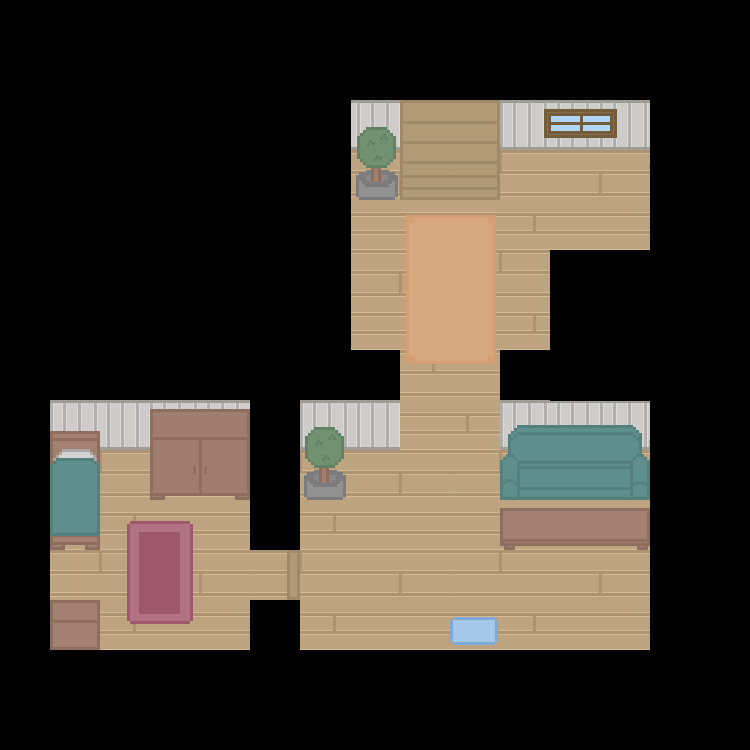
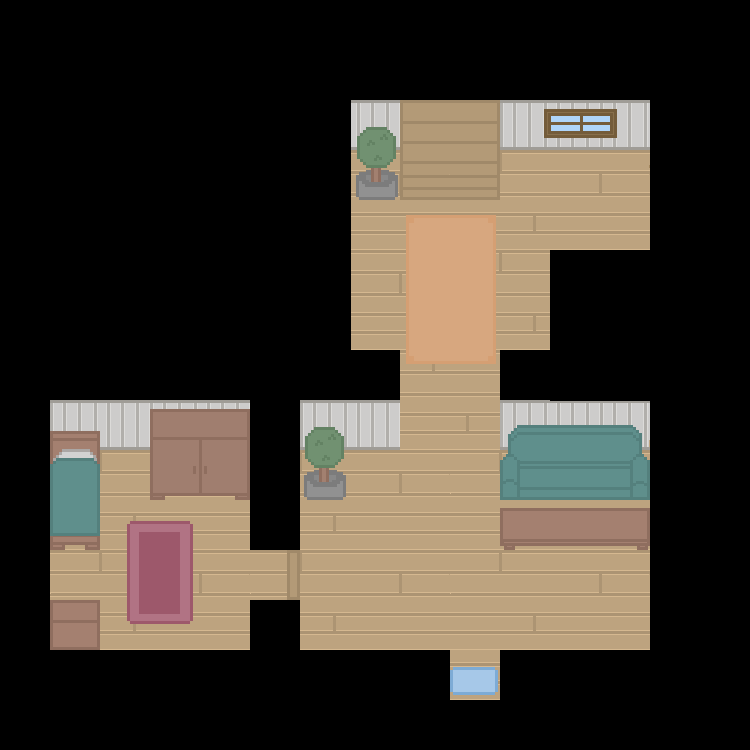
- nowe lokacje - dodano funkcje potrzebne do zapisu

Changed region(s): [[0.5827, 0.7973, 0.6747, 0.9507]]

diff --git a/Project5/BarelyBear.c b/Project5/BarelyBear.c
@@ -8,18 +8,7 @@
 #include <allegro5\allegro_font.h>
 #include <allegro5\allegro_ttf.h>
 #include "dialogi.h"
-struct wlasciwosci_pola {
-	bool przeszkoda;
-	int  npc;
-	int  przejscie_mapy;
-	int npc_id;
-	int przeciwnik;
-	int przeciwnik_id;
-	int przedmiot;
-	int zdarzenia;
-	bool przyszle_poz_przeciwnikow;
-	bool przyszle_poz_npc;
-};
+
 struct dane_npc {
 	bool rozmawia;
 	int npc_id;
@@ -42,6 +31,8 @@ struct dane_przeciwnikow {
 	int poz_y;
 	int poz_docelowa_x;
 	int poz_docelowa_y;
+	int x_spawnu;
+	int y_spawnu;
 	int skok_miedzy_zmianami;
 	int kierunek;
 	int ostatni_kierunek;
@@ -89,7 +80,6 @@ struct wspolrzedne_pola
 typedef struct dane_do_alg_A dane_do_A;
 typedef struct lista s_lista;
 typedef struct wspolrzedne_pola s_wspolrzedne_pola;
-typedef struct wlasciwosci_pola wlasciwosci_pola_t;
 typedef struct dane_npc dane_npc_t;
 typedef struct przedmiot przedmiot_t;
 typedef struct typy_przedmiotow typy_przedmiotow_t;
@@ -119,7 +109,7 @@ void atak(wlasciwosci_pola_t**mapadane, int ostatni_kierunek, int poz_x, int poz
 
 
 int main() {
-	int ilosc_map = 29;
+	int ilosc_map = 33;
 	int mapax = 0;
 	int mapay = 0;
 	int tmp;
@@ -236,7 +226,7 @@ int main() {
 	if (ilosc_map != 0) {
 		nazwy_plikow = (char***)malloc(ilosc_map * sizeof(char**));
 		for (i = 0; i < ilosc_map; i++) {
-			nazwy_plikow[i] = (char**)malloc(2 * sizeof(char*));
+			nazwy_plikow[i] = (char**)malloc(3 * sizeof(char*));
 			}
 	}
 	czytanie_nazw(nazwy_plikow);
@@ -278,7 +268,6 @@ int main() {
 			}
 		}
 		wczytanie_z_pliku(dane_do_mapy, mapadane, wysokosc, szerokosc);
-		mapadane[5][6].przeciwnik = 3;
 		ilosc_rysowanych_npc = 0;
 		//zliczenie ilosci rysowanych npc
 		for (i = 0; i < wysokosc; i++) {
@@ -304,11 +293,11 @@ int main() {
 		//zerowanie npc.id na mapie i wyliczenie danych potrzebnych do ruchu
 		x = 1;
 		y = 1;
+		
 		for (i = 0; i < wysokosc; i++) {
 			for (j = 0; j < szerokosc; j++) {
 				mapadane[i][j].przyszle_poz_npc = false; //zerowanie przyszlych poz npc potrzebnych do kolizji z npc;
 				mapadane[i][j].przyszle_poz_przeciwnikow = false;
-				mapadane[i][j].przedmiot = 0;
 				if (mapadane[i][j].npc == 0) {
 					mapadane[i][j].npc_id = 0;
 				}
@@ -344,6 +333,8 @@ int main() {
 					dane_przeciwnikow_wartosci[tmp].poz_y = i*misjednostka*-1;
 					dane_przeciwnikow_wartosci[tmp].poz_docelowa_x = dane_przeciwnikow_wartosci[tmp].poz_x;
 					dane_przeciwnikow_wartosci[tmp].poz_docelowa_y = dane_przeciwnikow_wartosci[tmp].poz_y;
+					dane_przeciwnikow_wartosci[tmp].x_spawnu = j;
+					dane_przeciwnikow_wartosci[tmp].x_spawnu = i;
 					dane_przeciwnikow_wartosci[tmp].ostatni_kierunek = 1;
 					dane_przeciwnikow_wartosci[tmp].kierunek = 5;
 					dane_przeciwnikow_wartosci[tmp].zdrowie = 100;
@@ -353,7 +344,6 @@ int main() {
 
 			}
 		}
-		mapadane[6][6].przedmiot = 3;
 		rozmowa = 0;
 		mapa = al_load_bitmap(nazwy_plikow[numerbitmapy][0]);
 		if (numerbitmapy == 0) {
@@ -528,7 +518,7 @@ int main() {
 			if (ilosc_rysowanych_npc> 0 || ilosc_rysowanych_wrogow>0) {
 				for (i = yszukania; i < yszukania + szerszukania; i++) {
 					for (j = xszukania; j < xszukania + szerszukania; j++) {
-						if (!poza_mapa(wysokosc,szerokosc,i,j))
+						if (!poza_mapa(wysokosc,szerokosc,j,i))
 						{
 							if (mapadane[i][j].przedmiot != 0) {
 								al_draw_bitmap_region(przedmioty, (mapadane[i][j].przedmiot - 1)*misjednostka, 50, misjednostka, misjednostka, (j*misjednostka) - mapax*-1, (i*misjednostka) - mapay*-1, 0);
@@ -707,7 +697,8 @@ int main() {
 										}
 									}
 									else {
-										mapadane[i][j].przeciwnik_id = 0;
+										mapadane[dane_przeciwnikow_wartosci[tmp].y_spawnu][dane_przeciwnikow_wartosci[tmp].x_spawnu].przeciwnik_id = 0;
+										mapadane[dane_przeciwnikow_wartosci[tmp].y_spawnu][dane_przeciwnikow_wartosci[tmp].x_spawnu].przeciwnik = 0;
 									}
 								}
 							}
@@ -999,90 +990,136 @@ void czytanie_nazw(char ***nazwy) {
 
 	nazwy[0][0] = "data/mapy/miasto.png";
 	nazwy[0][1] = "data/mapy/miasto.leafe";
+	nazwy[0][2] = "save/mapy/miastosav.leafe";
 
 	nazwy[1][0] = "data/mapy/wnetrze_dom_starca.png";
 	nazwy[1][1] = "data/mapy/wnetrze_dom_starca.leafe";
+	nazwy[1][2] = "save/mapy/wnetrze_dom_starcasav.leafe";
 
 	nazwy[2][0] = "data/mapy/domAlbrehta.png";
 	nazwy[2][1] = "data/mapy/domAlbrehta.leafe";
+	nazwy[2][2] = "save/mapy/domAlbrehtasav.leafe";
 
 	nazwy[3][0] = "data/mapy/karczma.png";
 	nazwy[3][1] = "data/mapy/karczma.leafe";
+	nazwy[3][2] = "save/mapy/karczmasav.leafe";
 
 	nazwy[4][0] = "data/mapy/piwnica_szczury.png";
 	nazwy[4][1] = "data/mapy/piwnica_szczury.leafe";
+	nazwy[4][2] = "save/mapy/piwnica_szczurysav.leafe";
 
 	nazwy[5][0] = "data/mapy/wnetrze_dom_mieszkalny1.png";
 	nazwy[5][1] = "data/mapy/mieszkanie1.leafe";
+	nazwy[5][2] = "save/mapy/mieszkanie1sav.leafe";
 
 	nazwy[6][0] = "data/mapy/wnetrze_dom_mieszkalny2.png";
 	nazwy[6][1] = "data/mapy/mieszkanie2.leafe";
+	nazwy[6][2] = "save/mapy/mieszkanie2sav.leafe";
 
 	nazwy[7][0] = "data/mapy/wnetrze_dom_mieszkalny3.png";
 	nazwy[7][1] = "data/mapy/mieszkanie3.leafe";
+	nazwy[7][2] = "save/mapy/mieszkanie3sav.leafe";
 
 	nazwy[8][0] = "data/mapy/wnetrze_dom_mieszkalny1.png";
 	nazwy[8][1] = "data/mapy/mieszkanie4.leafe";
+	nazwy[8][2] = "save/mapy/mieszkanie4sav.leafe";
 
 	nazwy[9][0] = "data/mapy/wnetrze_dom_mieszkalny2.png";
 	nazwy[9][1] = "data/mapy/mieszkanie5.leafe";
+	nazwy[9][2] = "save/mapy/mieszkanie5sav.leafe";
 
 	nazwy[10][0] = "data/mapy/wnetrze_dom_mieszkalny3.png";
 	nazwy[10][1] = "data/mapy/mieszkanie6.leafe";
+	nazwy[10][2] = "save/mapy/mieszkanie6sav.leafe";
 
 	nazwy[11][0] = "data/mapy/wnetrze_dom_mieszkalny1.png";
 	nazwy[11][1] = "data/mapy/mieszkanie7.leafe";
+	nazwy[11][2] = "save/mapy/mieszkanie7sav.leafe";
 
 	nazwy[12][0] = "data/mapy/wnetrze_dom_mieszkalny2.png";
 	nazwy[12][1] = "data/mapy/mieszkanie8.leafe";
+	nazwy[12][2] = "save/mapy/mieszkanie8sav.leafe";
 
 	nazwy[13][0] = "data/mapy/wnetrze_dom_mieszkalny3.png";
 	nazwy[13][1] = "data/mapy/mieszkanie9.leafe";
+	nazwy[13][2] = "save/mapy/mieszkanie9sav.leafe";
 
 	nazwy[14][0] = "data/mapy/wnetrze_dom_mieszkalny1.png";
 	nazwy[14][1] = "data/mapy/mieszkanie10.leafe";
+	nazwy[14][2] = "save/mapy/mieszkanie10sav.leafe";
 
 	nazwy[15][0] = "data/mapy/wnetrze_dom_mieszkalny2.png";
 	nazwy[15][1] = "data/mapy/mieszkanie11.leafe";
+	nazwy[15][2] = "save/mapy/mieszkanie11sav.leafe";
 
 	nazwy[16][0] = "data/mapy/wnetrze_dom_mieszkalny3.png";
 	nazwy[16][1] = "data/mapy/mieszkanie12.leafe";
+	nazwy[16][2] = "save/mapy/mieszkanie12sav.leafe";
 
 	nazwy[17][0] = "data/mapy/wnetrze_dom_mieszkalny1.png";
 	nazwy[17][1] = "data/mapy/mieszkanie13.leafe";
+	nazwy[17][2] = "save/mapy/mieszkanie13sav.leafe";
 
 	nazwy[18][0] = "data/mapy/wnetrze_dom_mieszkalny2.png";
 	nazwy[18][1] = "data/mapy/mieszkanie14.leafe";
+	nazwy[18][2] = "save/mapy/mieszkanie14sav.leafe";
 
 	nazwy[19][0] = "data/mapy/wnetrze_dom_mieszkalny3.png";
 	nazwy[19][1] = "data/mapy/mieszkanie15.leafe";
+	nazwy[19][2] = "save/mapy/mieszkanie15sav.leafe";
 
 	nazwy[20][0] = "data/mapy/wnetrze_dom_mieszkalny1.png";
 	nazwy[20][1] = "data/mapy/mieszkanie16.leafe";
+	nazwy[20][2] = "save/mapy/mieszkanie16sav.leafe";
 
 	nazwy[21][0] = "data/mapy/wnetrze_dom_mieszkalny2.png";
 	nazwy[21][1] = "data/mapy/mieszkanie17.leafe";
+	nazwy[21][2] = "save/mapy/mieszkanie17sav.leafe";
 
 	nazwy[22][0] = "data/mapy/wnetrze_dom_mieszkalny3.png";
 	nazwy[22][1] = "data/mapy/mieszkanie18.leafe";
+	nazwy[22][2] = "save/mapy/mieszkanie18sav.leafe";
 
 	nazwy[23][0] = "data/mapy/wnetrze_dom_mieszkalny1.png";
 	nazwy[23][1] = "data/mapy/mieszkanie19.leafe";
+	nazwy[23][2] = "save/mapy/mieszkanie19sav.leafe";
 
 	nazwy[24][0] = "data/mapy/wnetrze_dom_mieszkalny2.png";
 	nazwy[24][1] = "data/mapy/mieszkanie20.leafe";
+	nazwy[24][2] = "save/mapy/mieszkanie20sav.leafe";
 
 	nazwy[25][0] = "data/mapy/wnetrze_dom_mieszkalny3.png";
 	nazwy[25][1] = "data/mapy/mieszkanie21.leafe";
+	nazwy[25][2] = "save/mapy/mieszkanie21sav.leafe";
 
 	nazwy[26][0] = "data/mapy/wnetrze_dom_mieszkalny1.png";
 	nazwy[26][1] = "data/mapy/mieszkanie22.leafe";
+	nazwy[26][2] = "save/mapy/mieszkanie22sav.leafe";
 
 	nazwy[27][0] = "data/mapy/wnetrze_dom_mieszkalny2.png";
 	nazwy[27][1] = "data/mapy/mieszkanie23.leafe";
+	nazwy[27][2] = "save/mapy/mieszkanie23sav.leafe";
 
 	nazwy[28][0] = "data/mapy/wnetrze_dom_mieszkalny3.png";
 	nazwy[28][1] = "data/mapy/mieszkanie24.leafe";
+	nazwy[28][2] = "save/mapy/mieszkanie24sav.leafe";
+
+	nazwy[29][0] = "data/mapy/biblioteka.png";
+	nazwy[29][1] = "data/mapy/biblioteka.leafe";
+	nazwy[29][2] = "save/mapy/bibliotekasav.leafe";
+
+	nazwy[30][0] = "data/mapy/gildia.png";
+	nazwy[30][1] = "data/mapy/gildia.leafe";
+	nazwy[30][2] = "save/mapy/gildiasav.leafe";
+
+	nazwy[31][0] = "data/mapy/jaskinia.png";
+	nazwy[31][1] = "data/mapy/jaskinia.leafe";
+	nazwy[31][2] = "save/mapy/jaskiniasav.leafe";
+
+	nazwy[32][0] = "data/mapy/strozowka.png";
+	nazwy[32][1] = "data/mapy/strozowka.leafe";
+	nazwy[32][2] = "save/mapy/strozowkasav.leafe";
+
 
 }
 void czytanie_nazw_przeciwnikow(char **nazwy) {

diff --git a/Project5/dialogi.c b/Project5/dialogi.c
@@ -148,6 +148,7 @@ void dialogi(ALLEGRO_FONT *czcionka, int rodzaj_npc, int* nr_odp, int *rozmowa, 
 						*zad = 3;
 						*rozmowa = 0;
 						zabranie_przedmioty_z_ekwipunku(przedmioty_zalozone, przedmioty_w_ekwipunku, 1, 3);
+						zapis_pliku_leafe_z_pliku_do_pliku("data/mapy/karczma.leafe", "wynik.leafe");
 					}
 					else
 					{
@@ -267,15 +268,86 @@ void zabranie_przedmioty_z_ekwipunku(int*przedmioty_zalozone, int przedmioty_w_e
 	else {
 		for (i = 0; i < 5; i++) {
 			for (j = 0; j < 3; j++) {
-				if (przedmioty_w_ekwipunku[i][j] == czego_szukamy) {
+				if (!zabrano && przedmioty_w_ekwipunku[i][j] == czego_szukamy) {
 					przedmioty_w_ekwipunku[i][j] = 0;
 					zabrano = true;
 				}
 			}
 		}
 	}
+}
+bool sprawdzenie_czy_sa_przeciwnicy_na_aktualnej_mapie(wlasciwosci_pola_t** mapa,int wysokosc,int szerokosc,int ktorego_wroga_szukamy) {
+	int i, j;
+	for (i = 0; i < wysokosc; i++) {
+		for (j = 0; j < szerokosc; j++) {
+			if (mapa[i][j].przeciwnik == ktorego_wroga_szukamy) {
+				return true;
+			}
+		}
+	}
 	return false;
 }
-bool sprawdzenie_czy_sa_przeciwnicy_na_aktualnej_mapie() {
-
+bool sprawdzenie_czy_sa_przeciwnicy_na_innej_mapie(char* nazwa_mapy,int ktorego_wroga_szukamy) {
+	FILE *plik;
+	int wysokosc, szerokosc, xspawnu, yspawnu;
+	int i, j;
+	int pomoc,to_co_trzeba;
+	fopen_s(&plik,nazwa_mapy, "r");
+	fscanf_s(plik, "%i", &wysokosc);
+	fscanf_s(plik, "%i", &szerokosc);
+	fscanf_s(plik, "%i", &xspawnu);
+	fscanf_s(plik, "%i", &yspawnu);
+	for (i = 0; i < wysokosc; i++) {
+		for (j = 0; j < szerokosc; j++) {
+			fscanf_s(plik, "%i", &pomoc);
+			fscanf_s(plik, "%i", &pomoc);
+			fscanf_s(plik, "%i", &pomoc);
+			fscanf_s(plik, "%i", &to_co_trzeba);
+			fscanf_s(plik, "%i", &pomoc);
+			fscanf_s(plik, "%i", &pomoc);
+			if (to_co_trzeba == ktorego_wroga_szukamy) {
+				return true;
+			}
+		}
+	}
+	fclose(plik);
+	return false;
+}
+void zapis_pliku_leafe_z_pliku_do_pliku(char*nazwa_wejscia, char*nazwa_wyjscia) {
+	FILE *wejscie;
+	FILE *wyjscie;
+	int wysokosc, szerokosc, xspawnu, yspawnu,i,j,k;
+	int tmp;
+	fopen_s(&wejscie, nazwa_wejscia, "r");
+	fopen_s(&wyjscie, nazwa_wyjscia, "w");
+	fscanf_s(wejscie, "%i", &wysokosc);
+	fscanf_s(wejscie, "%i", &szerokosc);
+	fscanf_s(wejscie, "%i", &xspawnu);
+	fscanf_s(wejscie, "%i", &yspawnu);
+	fprintf(wyjscie, "%i", wysokosc);
+	fprintf(wyjscie, "\n");
+	fprintf(wyjscie, "%i", szerokosc);
+	fprintf(wyjscie, "\n");
+	fprintf(wyjscie, "%i", xspawnu);
+	fprintf(wyjscie, "\n");
+	fprintf(wyjscie, "%i", yspawnu);
+	fprintf(wyjscie, "\n");
+	for (i = 0; i < wysokosc; i++) {
+		for (j = 0; j < szerokosc; j++) {
+			for (k = 0; k < 6; k++) {
+				fscanf_s(wejscie, "%i", &tmp);
+				fprintf(wyjscie, "%i ", tmp);
+			}
+		}
+		fprintf(wyjscie, "\n");
+	}
+	fclose(wyjscie);
+	fclose(wejscie);
+}
+void zapis_wszystkich_plikow(char*** nazwy_plikow,int ilosc_plikow) 
+{
+	int i;
+	for (i = 0; i < ilosc_plikow; i++) {
+		zapis_pliku_leafe_z_pliku_do_pliku(nazwy_plikow[i][1], nazwy_plikow[i][2]);
+	}
 }

diff --git a/Project5/dialogi.h b/Project5/dialogi.h
@@ -1,9 +1,25 @@
 #pragma once
 #ifndef dialogi_h
 #define dialogi_h
+struct wlasciwosci_pola {
+	bool przeszkoda;
+	int  npc;
+	int  przejscie_mapy;
+	int npc_id;
+	int przeciwnik;
+	int przeciwnik_id;
+	int przedmiot;
+	int zdarzenia;
+	bool przyszle_poz_przeciwnikow;
+	bool przyszle_poz_npc;
+};
+typedef struct wlasciwosci_pola wlasciwosci_pola_t;
 void dialogi(ALLEGRO_FONT *czcionka, int rodzaj_npc, int* nr_odp, int *rozmowa, int *zad, float czas, bool *wziecie_czasu, bool *wybor, int *ilosc_opcji, int *drugi_wybor, int numer_mapy, int *przedmioty_zalozone, int przedmioty_w_ekwipunku[][3]);
 void zamiana_itemu_w_ekwipunku(int *przedmioty_zaolozone, int przedmioty_w_ekwipunku[][3], int z_czego, int na_co, int typ_itemu);
 void eventy(int ktory_event, int poz_gracza_x, int poz_gracza_y, int *przedmioty_zaolozone, int przedmioty_w_ekwipunku[][3]);
 bool sprawdzenie_czy_przedmiot_jest_w_ekwipunku(int*przedmioty_zalozone, int przedmioty_w_ekwipunku[][3], int czego_szukamy, int typ_itemu);
 void zabranie_przedmioty_z_ekwipunku(int*przedmioty_zalozone, int przedmioty_w_ekwipunku[][3], int czego_szukamy, int typ_itemu);
+bool sprawdzenie_czy_sa_przeciwnicy_na_aktualnej_mapie(wlasciwosci_pola_t** mapa, int wysokosc, int szerokosc, int ktorego_wroga_szukamy);
+bool sprawdzenie_czy_sa_przeciwnicy_na_innej_mapie(char* nazwa_mapy, int ktorego_wroga_szukamy);
+void zapis_pliku_leafe_z_pliku_do_pliku(char*nazwa_wejscia, char*nazwa_wyjscia);
 #endif // !dialogi.h
